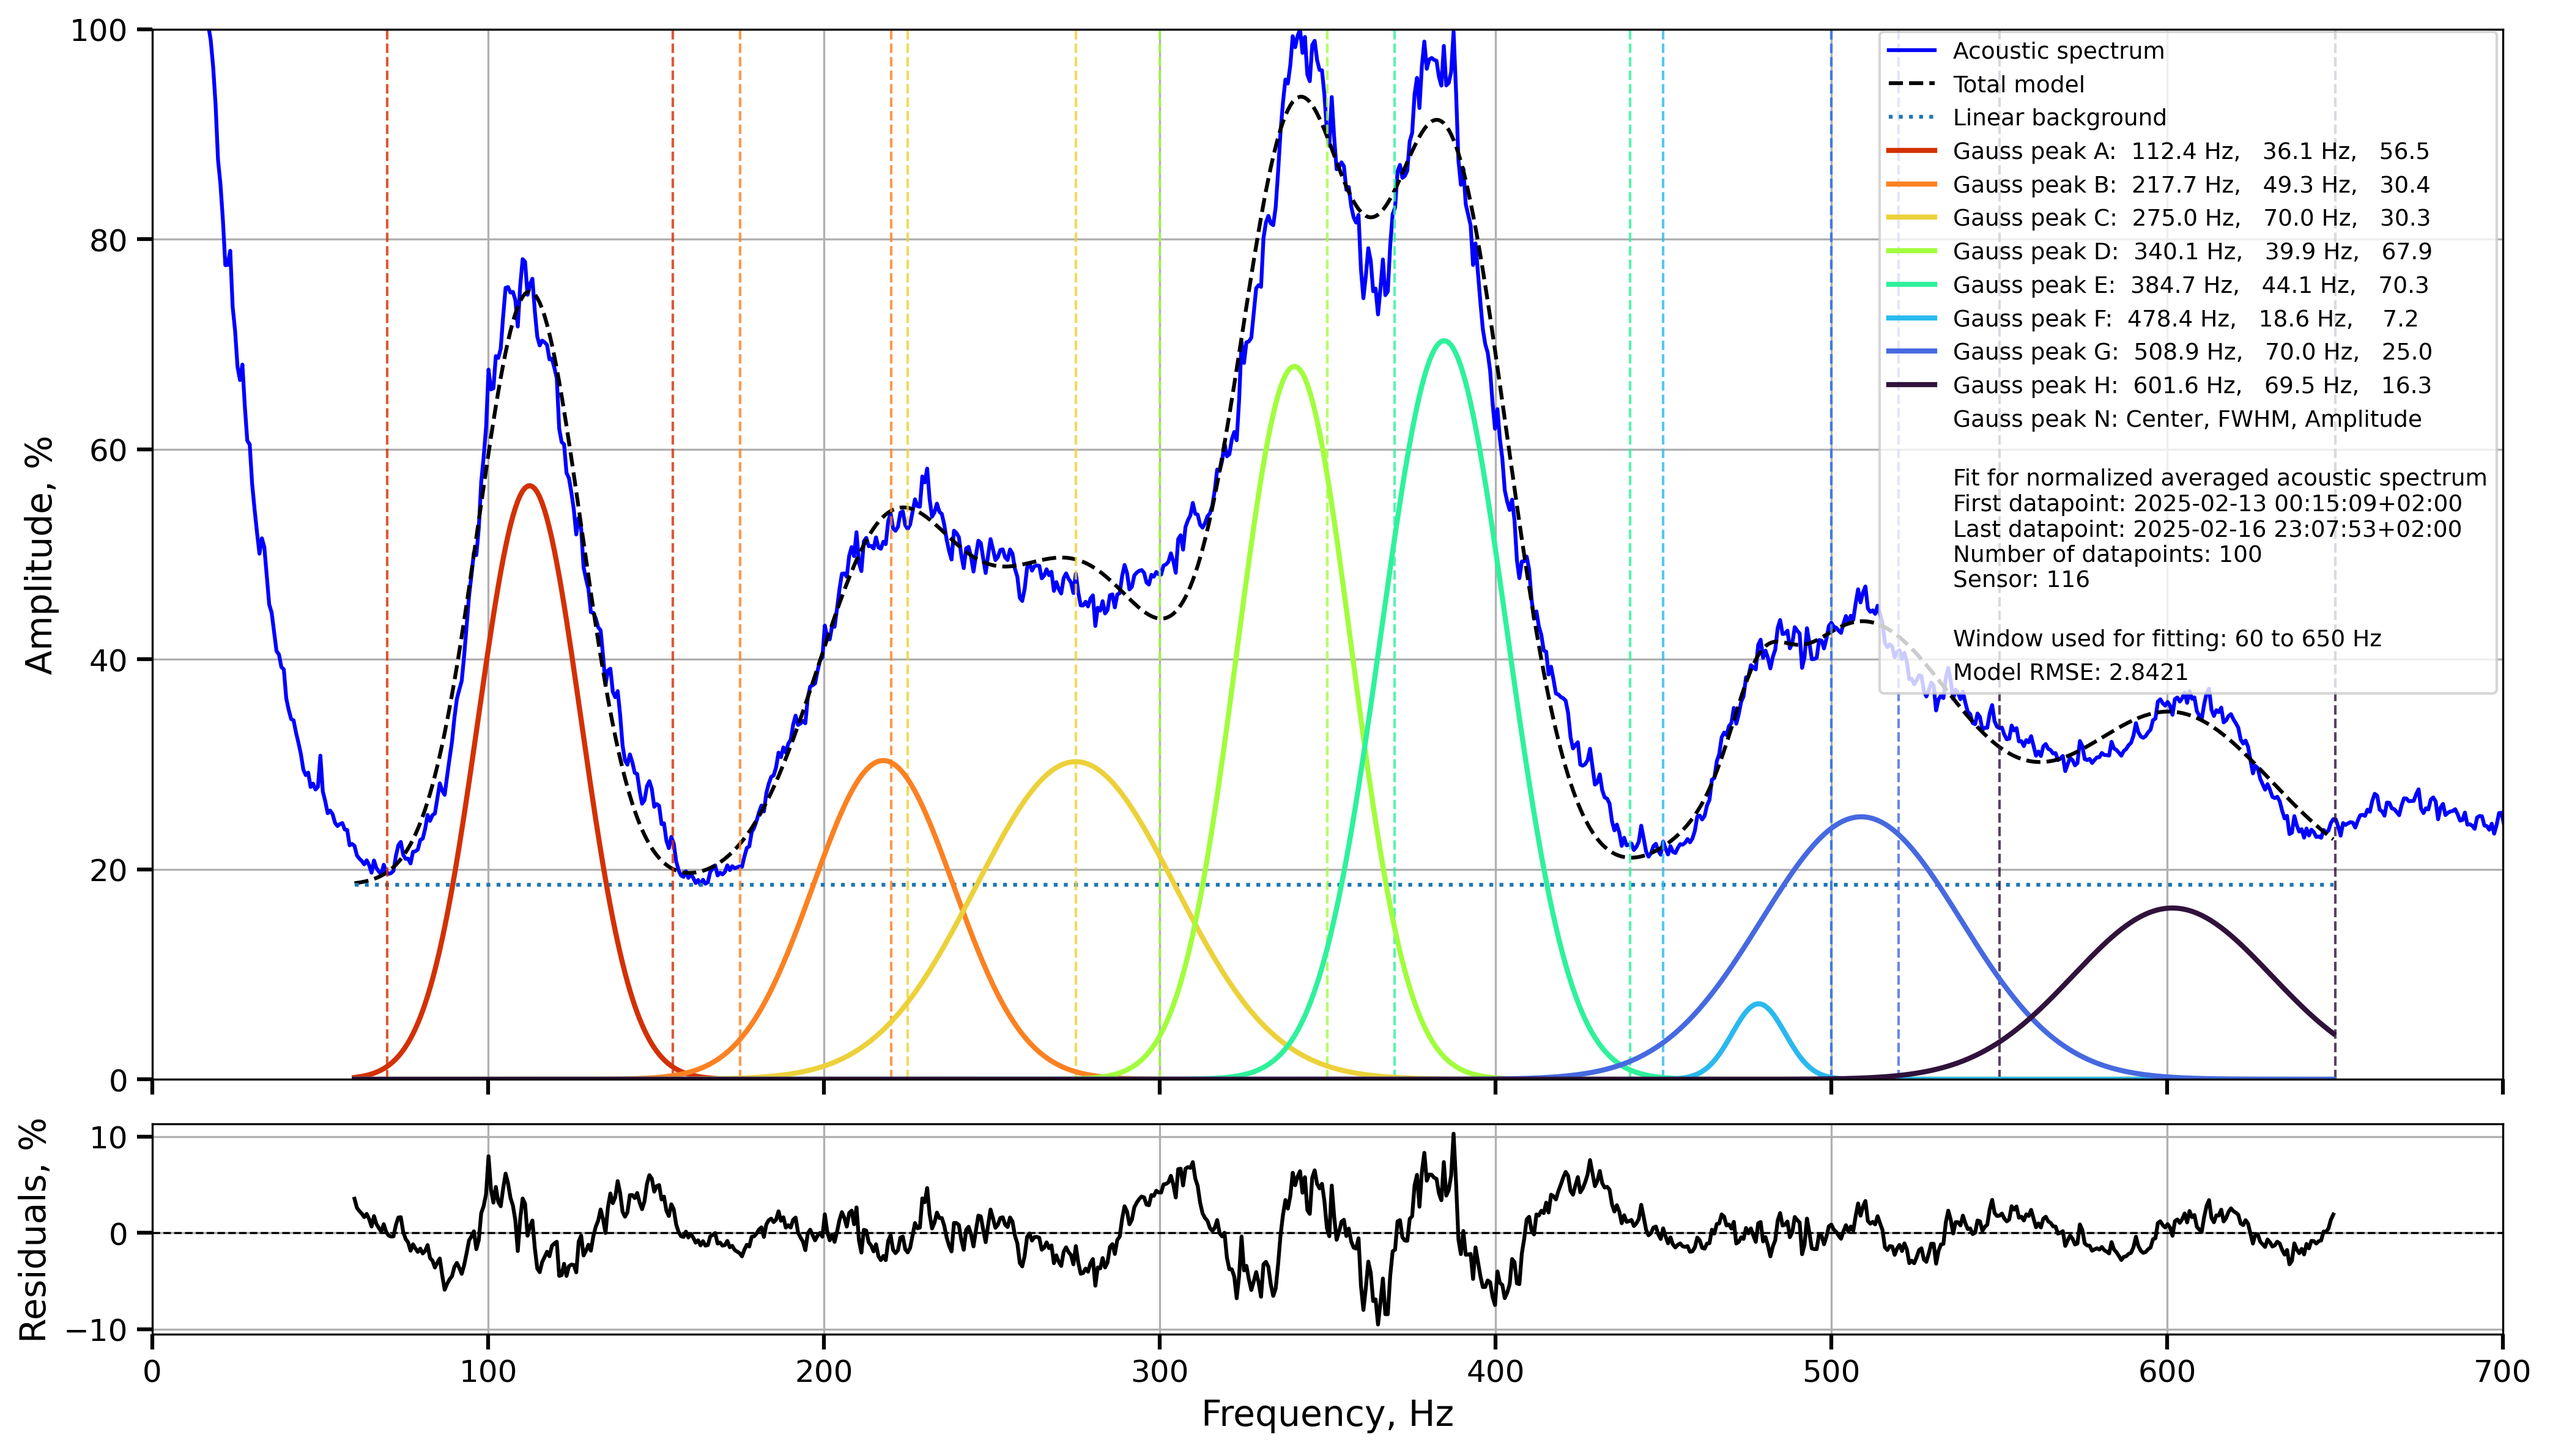
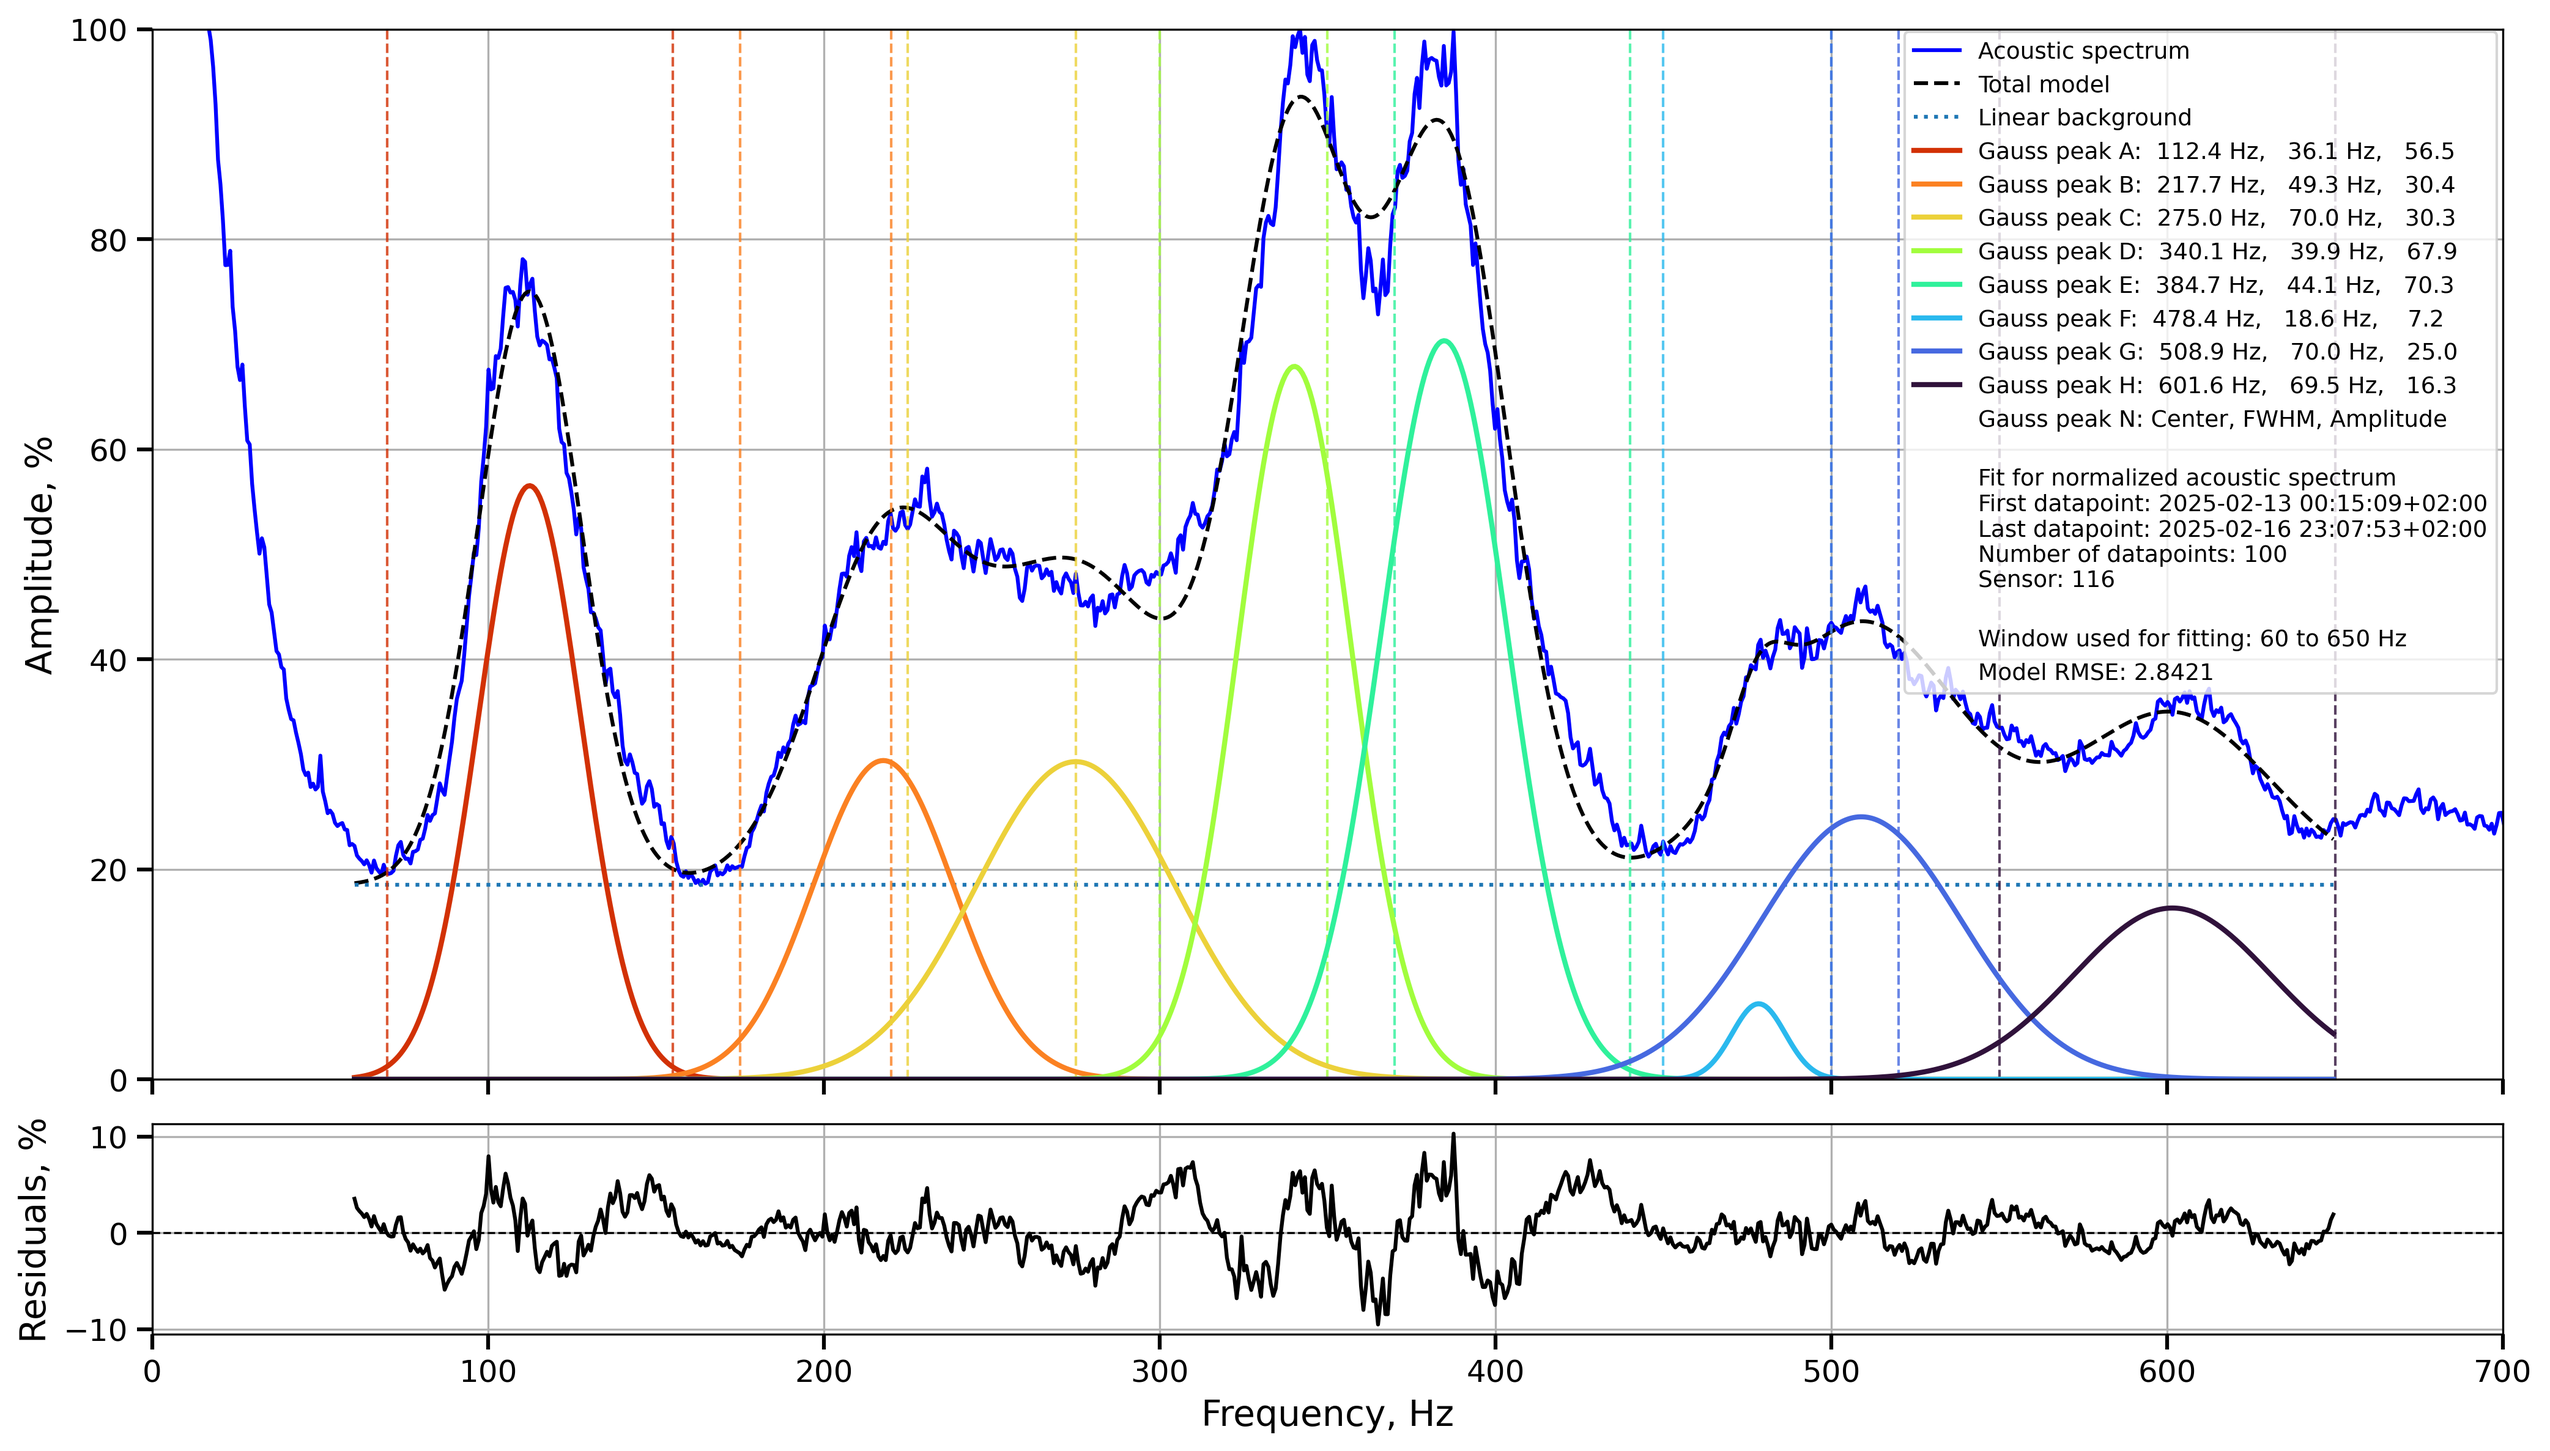
Creating many plots

Changed region(s): [[0.7172, 0.0312, 0.9667, 0.4054], [0.7172, 0.4054, 0.9355, 0.4678]]

diff --git a/gauss_plot.py b/gauss_plot.py
@@ -54,14 +54,14 @@ def create_model():
         model += Model(gaussian, prefix=f'g{i}_')
     return model
 
-def plot_gaussians(ds, start, end, output_path, name_overide=None):
+def plot_gaussians(ds, sensors_to_draw, start, end, output_path):
     images = []
-    all_sensors = np.unique(ds.sensor)
-    for sensor_id in all_sensors:
+    # all_sensors = np.unique(ds.sensor)
+    for sensor_id in sensors_to_draw:
         filtered_ds = ds.where (
             (ds.sensor == sensor_id) &
-            (ds['datetime'] > start) & 
-            (ds['datetime'] < end),
+            (ds['datetime'] >= start) & 
+            (ds['datetime'] <= end),
             drop = True,
             other = 0
         )
@@ -135,7 +135,7 @@ def plot_gaussians(ds, start, end, output_path, name_overide=None):
         handles, _ = ax1.get_legend_handles_labels()
         patch = mpatches.Patch(color='None', label=f"Gauss peak N: Center, FWHM, Amplitude")
         handles.append(patch) 
-        datapoints_info = "\nFit for normalized averaged acoustic spectrum\n{}Sensor: {}".format(get_info_total(filtered_ds), sensor_id, FITTING_WINDOW_MIN, FITTING_WINDOW_MAX)
+        datapoints_info = "\nFit for normalized acoustic spectrum\n{}Sensor: {}".format(get_info_total(filtered_ds), sensor_id, FITTING_WINDOW_MIN, FITTING_WINDOW_MAX)
         patch = mpatches.Patch(color='None', label=datapoints_info) 
         handles.append(patch) 
         window_text = f"\nWindow used for fitting: {FITTING_WINDOW_MIN} to {FITTING_WINDOW_MAX} Hz"
@@ -154,14 +154,11 @@ def plot_gaussians(ds, start, end, output_path, name_overide=None):
         plt.tight_layout()
         # plt.subplots_adjust(right=0.75)
 
-        if name_overide:
-            img_pathname = os.path.join(output_path, f"{name_overide}-{sensor_id}.png")
-        else:
-            first_datetime = min(measurement_datetimes) 
-            last_datetime = max(measurement_datetimes)
-            img_pathname = create_artifact_pathname(
-                "gauss", output_path, sensor_id, first_datetime, last_datetime, "png"
-            )
+        first_datetime = min(measurement_datetimes) 
+        last_datetime = max(measurement_datetimes)
+        img_pathname = create_artifact_pathname(
+            "gauss", output_path, sensor_id, first_datetime, last_datetime, "png"
+        )
 
         images.append(img_pathname) 
         os.makedirs(output_path, exist_ok=True)
@@ -183,6 +180,7 @@ def plot_gauss_example():
     filtered_ds = load_dataset(csv_files, True, start, end)
     gauss_plots = plot_gaussians(
             filtered_ds,
+            sensors,
             start,
             end,
             OUTPUT_DIR,
@@ -202,11 +200,38 @@ def plot_gauss_current():
     filtered_ds = load_dataset(csv_files, True, start, end)
     gauss_plots = plot_gaussians(
             filtered_ds,
+            sensors,
             start,
             end,
             OUTPUT_DIR,
     )
     return gauss_plots
+
+def plot_averaged_and_individual_spectra(sensors, start, end):
+    csv_files = download_csv_if_needed(
+            sensors,
+            start.astimezone(UTC_TZ),
+            end.astimezone(UTC_TZ),
+            DATA_DIR
+            )
+    filtered_ds = load_dataset(csv_files, True, start, end)
+    measurement_datetimes = np.array([dt.astimezone(HELSINKI_TZ) for dt in filtered_ds['datetime'].values])
+    _ = plot_gaussians(
+        filtered_ds,
+        sensors,
+        start,
+        end,
+        OUTPUT_DIR,
+    )
+
+    for datetime in measurement_datetimes:   
+        _ = plot_gaussians(
+            filtered_ds,
+            sensors,
+            datetime,
+            datetime,
+            OUTPUT_DIR,
+        )
 
 if __name__ == "__main__":
     logging.basicConfig(
@@ -219,6 +244,10 @@ if __name__ == "__main__":
 
     gauss_example = plot_gauss_example()
     show_image(gauss_example[0])
+    
+    # start = HELSINKI_2DAYS_AGO
+    # end = HELSINKI_NOW 
+    # plot_averaged_and_individual_spectra([116], start, end)
 
     # gauss_current = plot_gauss_current()
     # show_image(gauss_current[0])

diff --git a/main.py b/main.py
@@ -8,7 +8,7 @@ import json
 from constants import *
 from preprocessing import download_csv_if_needed, load_dataset, get_info_for_each_sensor
 from plotly_plots import plot_acoustic_spectra, plot_time_slider
-from gauss_plot import plot_gaussians
+from gauss_plot import plot_averaged_and_individual_spectra
 from evolution_plot import plot_evolution
 from similarity_plot import plot_similarity
 from html_templating import create_html, get_sensor_datetimes
@@ -23,8 +23,9 @@ if __name__ == "__main__":
         ]
     )
 
-    sensors = [116, 46, 21, 20]
-    start = HELSINKI_2DAYS_AGO
+    # sensors = [116, 46, 21, 20]
+    sensors = [116]
+    start = HELSINKI_24HOURS_AGO
     end = HELSINKI_NOW 
 
     csv_files = download_csv_if_needed(
@@ -40,8 +41,8 @@ if __name__ == "__main__":
     time_slider_html = plot_time_slider(filtered_dataset)
     acoustic_spectra_html = plot_acoustic_spectra(filtered_dataset, start, end)
     _ = plot_similarity(dataset, start, end, OUTPUT_DIR)
-    _ = plot_gaussians(dataset, start, end, OUTPUT_DIR)
     _ = plot_evolution(dataset, start, end, OUTPUT_DIR)
+    plot_averaged_and_individual_spectra(sensors, start, end)
 
     with open(ACOUSTIC_SPECTRA_INFO, "r") as f:
         acoustic_spectra_info = f.read()
@@ -52,17 +53,26 @@ if __name__ == "__main__":
     for sensor in sensors:
         first_dt, last_dt = get_sensor_datetimes(filtered_dataset, sensor)
         image_paths[sensor] = {
-            'gauss': create_artifact_pathname('gauss', OUTPUT_DIR, sensor, first_dt, last_dt, 'png'),
+            'gauss_averaged': create_artifact_pathname('gauss', OUTPUT_DIR, sensor, first_dt, last_dt, 'png'),
+            'gauss_individual': [create_artifact_pathname('gauss', OUTPUT_DIR, sensor, dt, dt, 'png') 
+                               for dt in filtered_dataset.where(filtered_dataset.sensor == sensor, drop=True)['datetime'].values],
             'evolution': create_artifact_pathname('evolution', OUTPUT_DIR, sensor, first_dt, last_dt, 'png'),
             'similarity': create_artifact_pathname('similarity', OUTPUT_DIR, sensor, first_dt, last_dt, 'png'),
         }
         logging.info(f"Created paths for sensor {sensor}: {image_paths[sensor]}")
             
         for plot_type, path in image_paths[sensor].items():
-            if os.path.exists(path):
-                logging.info(f"File exists: {path}")
+            if isinstance(path, list):
+                for p in path:
+                    if os.path.exists(p):
+                        logging.info(f"File exists: {p}")
+                    else:
+                        logging.warning(f"File does not exist: {p}")
             else:
-                logging.warning(f"File does not exist: {path}")
+                if os.path.exists(path):
+                    logging.info(f"File exists: {path}")
+                else:
+                    logging.warning(f"File does not exist: {path}")
 
     with open(IMAGE_PATHS_JSON, 'w') as f:
         json.dump(image_paths, f, indent=2)
